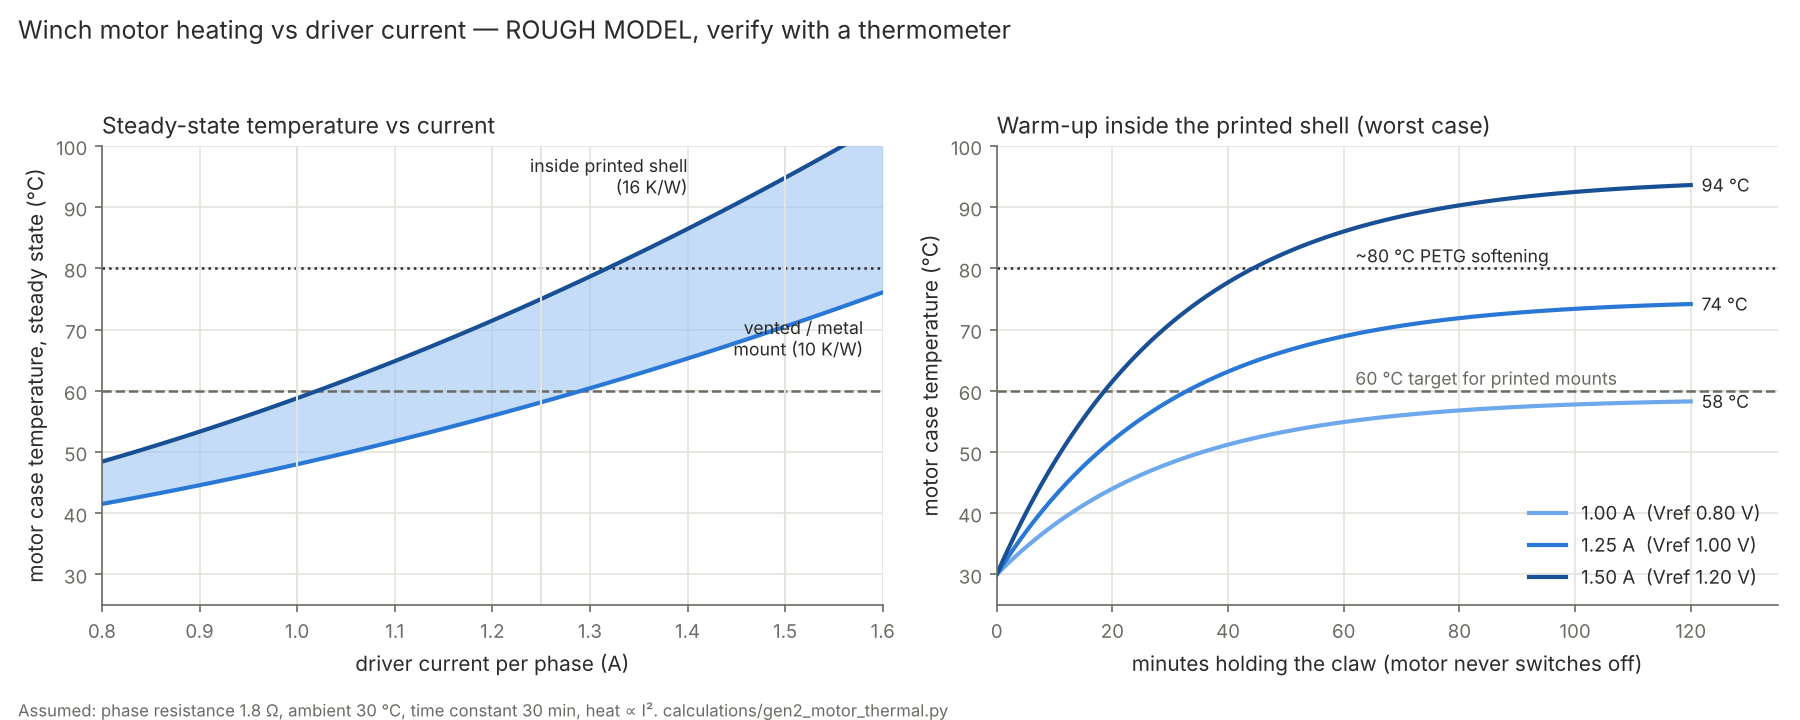
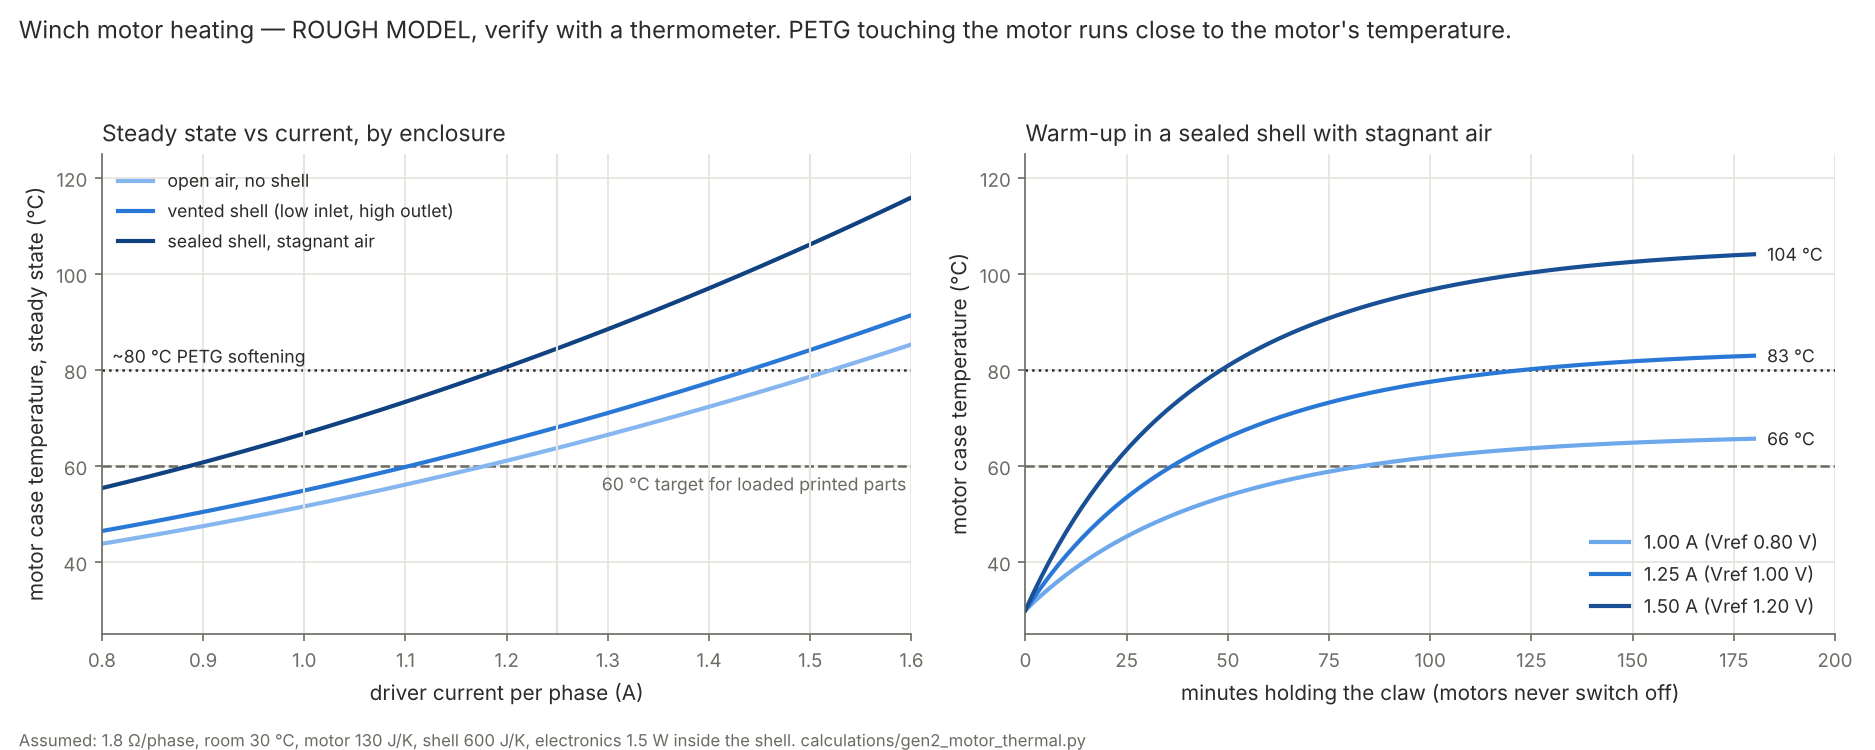
Thermal model: stagnant sealed shell + PETG interface (review R11)
Two-node model (motor case -> shell interior/PETG -> room) with 1.5 W of
station electronics in the same air. Sealed shell steady state: ~67 C at
1.0 A, ~84 C at 1.25 A, ~106 C at 1.5 A; even 1.0 A passes the 60 C
target after ~84 min. PETG conducts too poorly to sink heat, so the loaded
motor-bolt interface runs near motor temperature (creep). Review R11 lists
fixes: venting, aluminium spreader plate, clip-on heatsink, TMC2209 hold
current reduction, ASA/ABS housing, NTC monitoring, and the 90-min test.

Claude-Session: https://claude.ai/code/session_012vxDhJBdXDDzxaEvKJXH5D

diff --git a/calculations/gen2_motor_thermal.py b/calculations/gen2_motor_thermal.py
@@ -1,93 +1,122 @@
 """
-ROUGH motor-case temperature model for the winch steppers vs driver current.
+ROUGH motor-case temperature model for a winch station, vs driver current
+and enclosure. Two-node lumped network:
 
-First-order lumped model:  T(t) = T_amb + P*R_th*(1 - exp(-t/tau)),
-P = I^2 * R_phase (A4988 microstepping keeps I_a^2 + I_b^2 = I_peak^2 while
-holding, so total coil power is I_peak^2 * R_phase).
+  motor case (C_m) --R_ma--> shell interior: air + PETG housing (C_s) --R_sa--> room
 
-Every input is an ASSUMPTION to be replaced by a thermometer test:
-- R_phase 1.8 ohm (typical 42-38, 1.5 A NEMA 17; measure with the meter)
-- R_th 10 K/W (motor bolted to metal / vented) to 16 K/W (bolted to printed
-  PETG inside a closed shell). Bracketed by datasheet "rise <= 80 K at rated
-  current" and typical 3D-printer stepper temperatures.
-- thermal time constant 30 min (0.28 kg motor, C ~ 130 J/K)
-- ambient 30 C (near a ceiling)
+- Motor coil heat P_m = I^2 * R_phase (A4988 keeps I_a^2 + I_b^2 = I_peak^2,
+  so holding power is I_peak^2 * R_phase, all the time the claw is held).
+- The PETG housing is a poor conductor (k ~ 0.2 W/m·K), so it is lumped with
+  the interior air: it does NOT sink heat away, it rises toward the motor's
+  temperature where they touch.
+- Driver + step-down regulator + XIAO add P_e of heat into the same interior.
 
-    python -m calculations.gen2_motor_thermal   -> docs/presentation/figures/motor_thermal.png
+Every value is an ASSUMPTION to replace with a thermometer test.
+
+    python -m calculations.gen2_motor_thermal -> docs/presentation/figures/motor_thermal.png
 """
-import math
 import matplotlib
 matplotlib.use("Agg")
 import matplotlib.pyplot as plt
 
-R_PHASE, T_AMB, TAU_MIN = 1.8, 30.0, 30.0
-RTH_GOOD, RTH_BAD = 10.0, 16.0
+R_PHASE = 1.8        # ohm per phase (measure: meter across one coil pair)
+T_AMB = 30.0         # C near the ceiling
+C_M = 130.0          # J/K, 0.28 kg motor
+C_S = 600.0          # J/K, ~0.4 kg PETG shell/housing + air
+P_E = 1.5            # W, A4988 + buck + XIAO inside the shell
+
+# (label, R_ma motor->interior K/W, R_sa interior->room K/W, P_e W)
+SCENARIOS = [
+    ("open air, no shell", 12.0, 0.0, 0.0),
+    ("vented shell (low inlet, high outlet)", 12.0, 1.0, P_E),
+    ("sealed shell, stagnant air", 14.0, 3.5, P_E),
+]
+CURRENTS = [(1.0, "#6da7ec"), (1.25, "#2a78d6"), (1.5, "#184f95")]   # one-hue ramp
+SCEN_COLORS = ["#86b6ef", "#2a78d6", "#104281"]
 SAFE, PETG = 60.0, 80.0
-CURRENTS = [(1.0, "#6da7ec"), (1.25, "#2a78d6"), (1.5, "#184f95")]  # one-hue ramp: magnitude
 INK, MUTED, GRID = "#2b2b29", "#6b6a63", "#e4e3dd"
 
 
-def ss(i, rth):
-    return T_AMB + i * i * R_PHASE * rth
+def steady(i, r_ma, r_sa, p_e):
+    p_m = i * i * R_PHASE
+    t_s = T_AMB + (p_m + p_e) * r_sa
+    return t_s + p_m * r_ma, t_s
+
+
+def transient(i, r_ma, r_sa, p_e, minutes=180, dt=5.0):
+    p_m = i * i * R_PHASE
+    tm = ts = T_AMB
+    out = [(0, tm, ts)]
+    for k in range(1, int(minutes * 60 / dt) + 1):
+        q_ms = (tm - ts) / r_ma
+        q_sa = (ts - T_AMB) / r_sa if r_sa > 0 else None
+        tm += dt * (p_m - q_ms) / C_M
+        if r_sa > 0:
+            ts += dt * (q_ms + p_e - q_sa) / C_S
+        if k % 12 == 0:
+            out.append((k * dt / 60, tm, ts))
+    return out
+
+
+def style(ax):
+    ax.spines[["top", "right"]].set_visible(False)
+    for s in ("left", "bottom"):
+        ax.spines[s].set_color(MUTED)
+    ax.tick_params(colors=MUTED, labelsize=9)
+    ax.grid(True, color=GRID, lw=0.8)
+    ax.set_axisbelow(True)
+    ax.axhline(SAFE, color=MUTED, lw=1.2, ls="--")
+    ax.axhline(PETG, color=INK, lw=1.2, ls=":")
+    ax.set_ylim(25, 125)
 
 
 def main():
-    fig, (a, b) = plt.subplots(1, 2, figsize=(12, 4.8), dpi=150)
-    for ax in (a, b):
-        ax.spines[["top", "right"]].set_visible(False)
-        for s in ("left", "bottom"):
-            ax.spines[s].set_color(MUTED)
-        ax.tick_params(colors=MUTED, labelsize=9)
-        ax.grid(True, color=GRID, lw=0.8)
-        ax.set_axisbelow(True)
-        ax.axhline(SAFE, color=MUTED, lw=1.2, ls="--")
-        ax.axhline(PETG, color=INK, lw=1.2, ls=":")
-        ax.set_ylim(25, 100)
-
-    # Left: steady state vs current, band between mounting conditions
+    fig, (a, b) = plt.subplots(1, 2, figsize=(12.5, 5.0), dpi=150)
+    style(a); style(b)
     xs = [0.8 + k * 0.01 for k in range(81)]
-    lo = [ss(x, RTH_GOOD) for x in xs]
-    hi = [ss(x, RTH_BAD) for x in xs]
-    a.fill_between(xs, lo, hi, color="#9ec5f4", alpha=0.6, lw=0)
-    a.plot(xs, lo, color="#2a78d6", lw=2)
-    a.plot(xs, hi, color="#184f95", lw=2)
-    a.text(1.58, ss(1.6, RTH_GOOD) - 4, "vented / metal\nmount (10 K/W)", color=INK,
-           fontsize=8.5, ha="right", va="top")
-    a.text(1.40, ss(1.45, RTH_BAD) + 1, "inside printed shell\n(16 K/W)", color=INK,
-           fontsize=8.5, ha="right", va="bottom")
+    for (lbl, rma, rsa, pe), c in zip(SCENARIOS, SCEN_COLORS):
+        a.plot(xs, [steady(x, rma, rsa, pe)[0] for x in xs], color=c, lw=2, label=lbl)
     for i, _ in CURRENTS:
         a.axvline(i, color=GRID, lw=1)
+    a.text(1.595, SAFE - 1.5, "60 °C target for loaded printed parts", color=MUTED,
+           fontsize=8.5, ha="right", va="top")
+    a.text(0.81, PETG + 1.5, "~80 °C PETG softening", color=INK, fontsize=8.5)
     a.set_xlim(0.8, 1.6)
     a.set_xlabel("driver current per phase (A)", color=INK, fontsize=10)
     a.set_ylabel("motor case temperature, steady state (°C)", color=INK, fontsize=10)
-    a.set_title("Steady-state temperature vs current", color=INK, fontsize=11, loc="left")
+    a.set_title("Steady state vs current, by enclosure", color=INK, fontsize=11, loc="left")
+    leg = a.legend(frameon=False, fontsize=8.5, loc="upper left", bbox_to_anchor=(0, 1.0))
+    for t in leg.get_texts():
+        t.set_color(INK)
 
-    # Right: warm-up holding the claw, enclosed shell (worst case)
-    ts = list(range(0, 121))
+    lbl, rma, rsa, pe = SCENARIOS[2]
     for i, c in CURRENTS:
-        ys = [T_AMB + i * i * R_PHASE * RTH_BAD * (1 - math.exp(-t / TAU_MIN)) for t in ts]
-        b.plot(ts, ys, color=c, lw=2, label=f"{i:.2f} A  (Vref {0.8*i:.2f} V)")
-        b.text(121, ys[-1], f" {ys[-1]:.0f} °C", color=INK, fontsize=8.5, va="center")
-    b.text(62, SAFE + 1, "60 °C target for printed mounts", color=MUTED, fontsize=8.5)
-    b.text(62, PETG + 1, "~80 °C PETG softening", color=INK, fontsize=8.5)
-    b.set_xlim(0, 135)
-    b.set_xlabel("minutes holding the claw (motor never switches off)", color=INK, fontsize=10)
+        tr = transient(i, rma, rsa, pe)
+        b.plot([p[0] for p in tr], [p[1] for p in tr], color=c, lw=2,
+               label=f"{i:.2f} A (Vref {0.8*i:.2f} V)")
+        b.text(182, tr[-1][1], f" {tr[-1][1]:.0f} °C", color=INK, fontsize=8.5, va="center")
+    b.set_xlim(0, 200)
+    b.set_xlabel("minutes holding the claw (motors never switch off)", color=INK, fontsize=10)
     b.set_ylabel("motor case temperature (°C)", color=INK, fontsize=10)
-    b.set_title("Warm-up inside the printed shell (worst case)", color=INK, fontsize=11, loc="left")
+    b.set_title("Warm-up in a sealed shell with stagnant air", color=INK, fontsize=11, loc="left")
     leg = b.legend(frameon=False, fontsize=9, loc="lower right")
     for t in leg.get_texts():
         t.set_color(INK)
 
-    fig.suptitle("Winch motor heating vs driver current — ROUGH MODEL, verify with a thermometer",
-                 color=INK, fontsize=12, x=0.01, ha="left")
-    fig.text(0.01, 0.005, f"Assumed: phase resistance {R_PHASE} Ω, ambient {T_AMB:.0f} °C, "
-             f"time constant {TAU_MIN:.0f} min, heat ∝ I². calculations/gen2_motor_thermal.py",
-             color=MUTED, fontsize=8)
-    fig.tight_layout(rect=(0, 0.03, 1, 0.95))
+    fig.suptitle("Winch motor heating — ROUGH MODEL, verify with a thermometer. "
+                 "PETG touching the motor runs close to the motor's temperature.",
+                 color=INK, fontsize=11.5, x=0.01, ha="left")
+    fig.text(0.01, 0.005, f"Assumed: {R_PHASE} Ω/phase, room {T_AMB:.0f} °C, motor {C_M:.0f} J/K, "
+             f"shell {C_S:.0f} J/K, electronics {P_E} W inside the shell. "
+             "calculations/gen2_motor_thermal.py", color=MUTED, fontsize=8)
+    fig.tight_layout(rect=(0, 0.03, 1, 0.94))
     out = "docs/presentation/figures/motor_thermal.png"
     fig.savefig(out, facecolor="white")
     for i, _ in CURRENTS:
-        print(f"{i:.2f} A: {i*i*R_PHASE:.2f} W, steady {ss(i, RTH_GOOD):.0f}-{ss(i, RTH_BAD):.0f} °C")
+        row = [f"{steady(i, r1, r2, pe)[0]:.0f}" for _, r1, r2, pe in SCENARIOS]
+        t60 = next((p[0] for p in transient(i, *SCENARIOS[2][1:]) if p[1] >= SAFE), None)
+        print(f"{i:.2f} A: open/vented/sealed = {'/'.join(row)} C; sealed crosses 60 C at "
+              f"{'never' if t60 is None else f'{t60:.0f} min'}")
     print(out)
 
 

diff --git a/verification/design_review_gen2.md b/verification/design_review_gen2.md
@@ -31,6 +31,7 @@ concept.
 | R7 | Sensing | Camera moved onto a swinging claw: view and localization trade-off | Medium | Decision to state |
 | R8 | Electronics | Standalone A4988 needs a 47–100 µF bulk capacitor at VMOT on every station | High (blocker) | Open |
 | R10 | Capacity | Worst-case lift anywhere in the room is 1.0–1.5 lb **total** at 1.0 A (claw included); 1 lb test + ~1 lb claw is not guaranteed everywhere | **High** | Open: current, workspace shape, claw mass |
+| R11 | Thermal | In a sealed shell the motor exceeds 60 °C even at 1.0 A (~66 °C), and the PETG around the motor bolts runs close to that temperature | **High** | Open: vent or heat path |
 | R9 | Electronics | Driver logic supply: the 1.14 V fault shows the 3.3 V feed is a single point of failure | Low-Med | Partly fixed |
 
 Positives worth presenting: the 24T/24T stage is a clean way to get two
@@ -282,3 +283,55 @@ Assumptions (all conservative, all listed so they can be replaced by tests):
   is holding torque divided by the empty-spool radius: **32 N at 1.0 A and
   48 N at 1.5 A**, per cable. Use 32 N and 64 N (×2 dynamic) at 1.0 A, or
   48 N and 96 N if you raise the current.
+
+## R11 — Motor heat inside a printed, sealed shell (High)
+
+Raised by Jasper: with stagnant air, the motor can only dump heat by
+conduction into the PETG it is bolted to. PETG conducts about 0.2 W/m·K
+(roughly 1/1000 of aluminium), so it does not act as a heatsink. The housing
+interface simply climbs toward the motor's temperature, and that interface is
+the loaded joint carrying the cable force through the motor bolts.
+
+Model: `calculations/gen2_motor_thermal.py`, figure
+`docs/presentation/figures/motor_thermal.png`. Two thermal nodes (motor case,
+then shell interior and PETG). The A4988 holds full current whenever the
+claw is held, and the driver, regulator and XIAO add about 1.5 W inside the
+same shell. Rough model; all inputs are assumptions.
+
+| Current | Open air | Vented shell | Sealed shell | Sealed: passes 60 °C after |
+|---|---|---|---|---|
+| 1.0 A | 52 °C | 55 °C | **67 °C** | 84 min |
+| 1.25 A | 64 °C | 68 °C | **84 °C** | 37 min |
+| 1.5 A | 79 °C | 84 °C | **106 °C** | 22 min |
+
+Consequences:
+- **Creep at the motor bolts.** Hot, loaded PETG loosens the motor, so the
+  spool tilts and the anchor point moves. This is slow and invisible in a
+  short test.
+- **Driver shutdown.** The A4988 in the same hot air hits thermal shutdown
+  sooner, and shutdown drops the claw.
+- **Raising current to buy payload (R10) is limited by heat**, not by the
+  driver or the power supply.
+
+Fixes, roughly by effort:
+1. **Vent the shell:** an inlet near the bottom and an outlet near the top so
+   warm air rises out. This gets close to the open-air numbers.
+2. **Aluminium heat-spreader plate** (2–3 mm) between the motor face and the
+   PETG housing, extending outside the shell as a fin. It also spreads the
+   bolt load, which directly fixes the creep risk. This is cheap and the
+   biggest single gain.
+3. **Clip-on NEMA 17 heatsink** on the motor body (about $5), plus vents.
+4. **Mount the electronics outside the motor's air space,** or in their own
+   vented pocket.
+5. **Drivers with standstill current reduction** (TMC2209): full current
+   while moving and roughly half while holding. Heat goes with current
+   squared, so holding heat drops by about 75 %.
+6. **Higher-temperature material for the motor housing only:** ASA or ABS
+   (glass transition about 100–105 °C) or PC, instead of PETG (about 80 °C).
+7. **Monitor it:** a 10 kΩ NTC thermistor on one motor case, read by the
+   XIAO's ADC. Firmware lowers the claw and parks if it passes 60 °C.
+
+Verification: hold the 1 lb load at 1.0 A inside the closed shell for 90
+minutes and log the motor case and housing-interface temperatures every 10
+minutes. Pass: both stay under 60 °C. That plot replaces this model on the
+slide.
